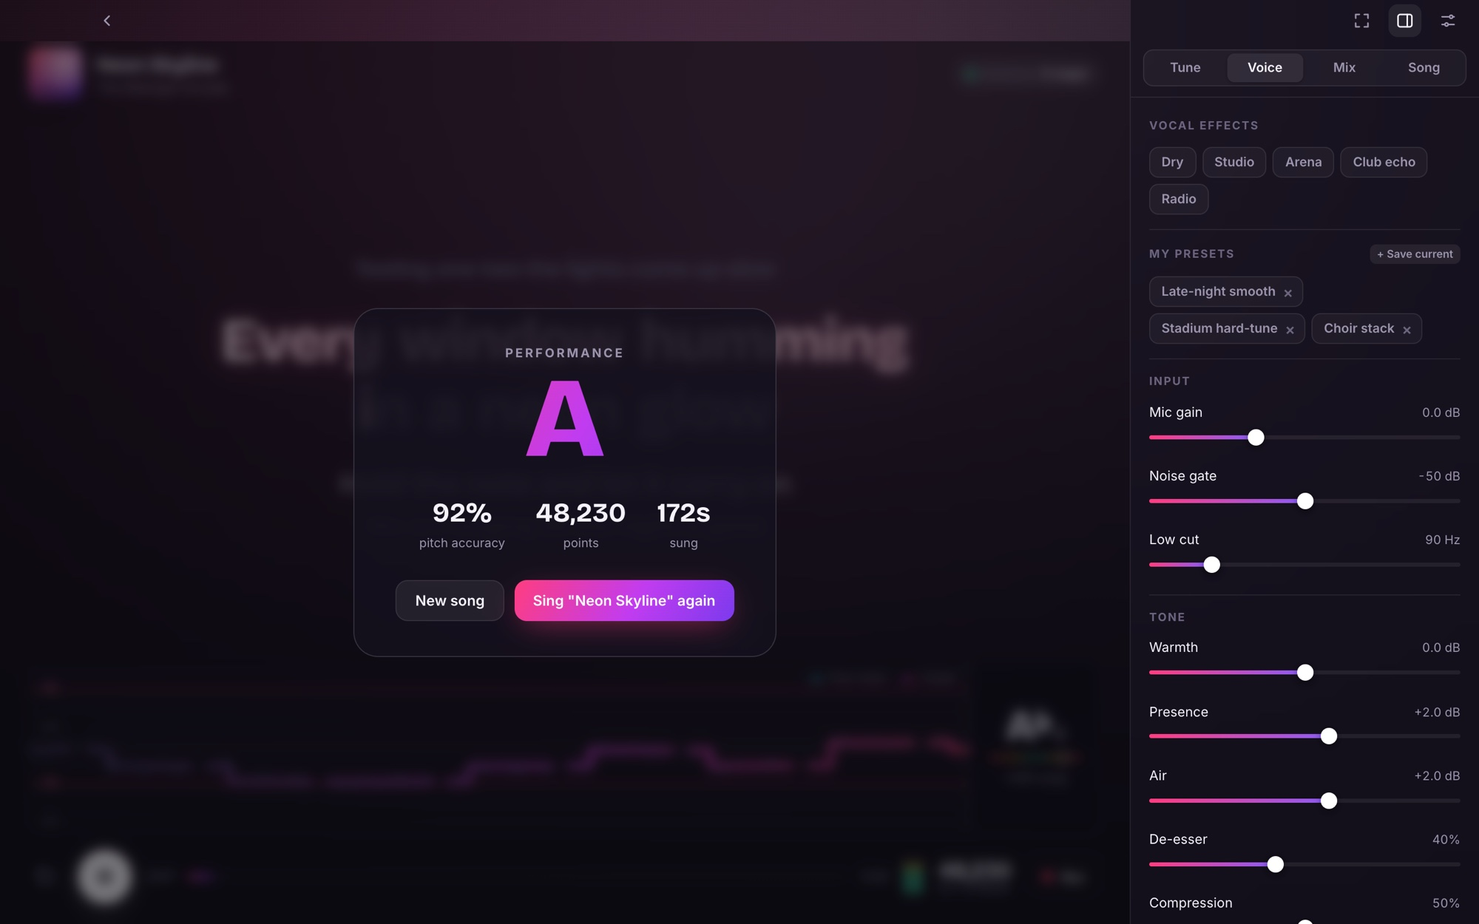
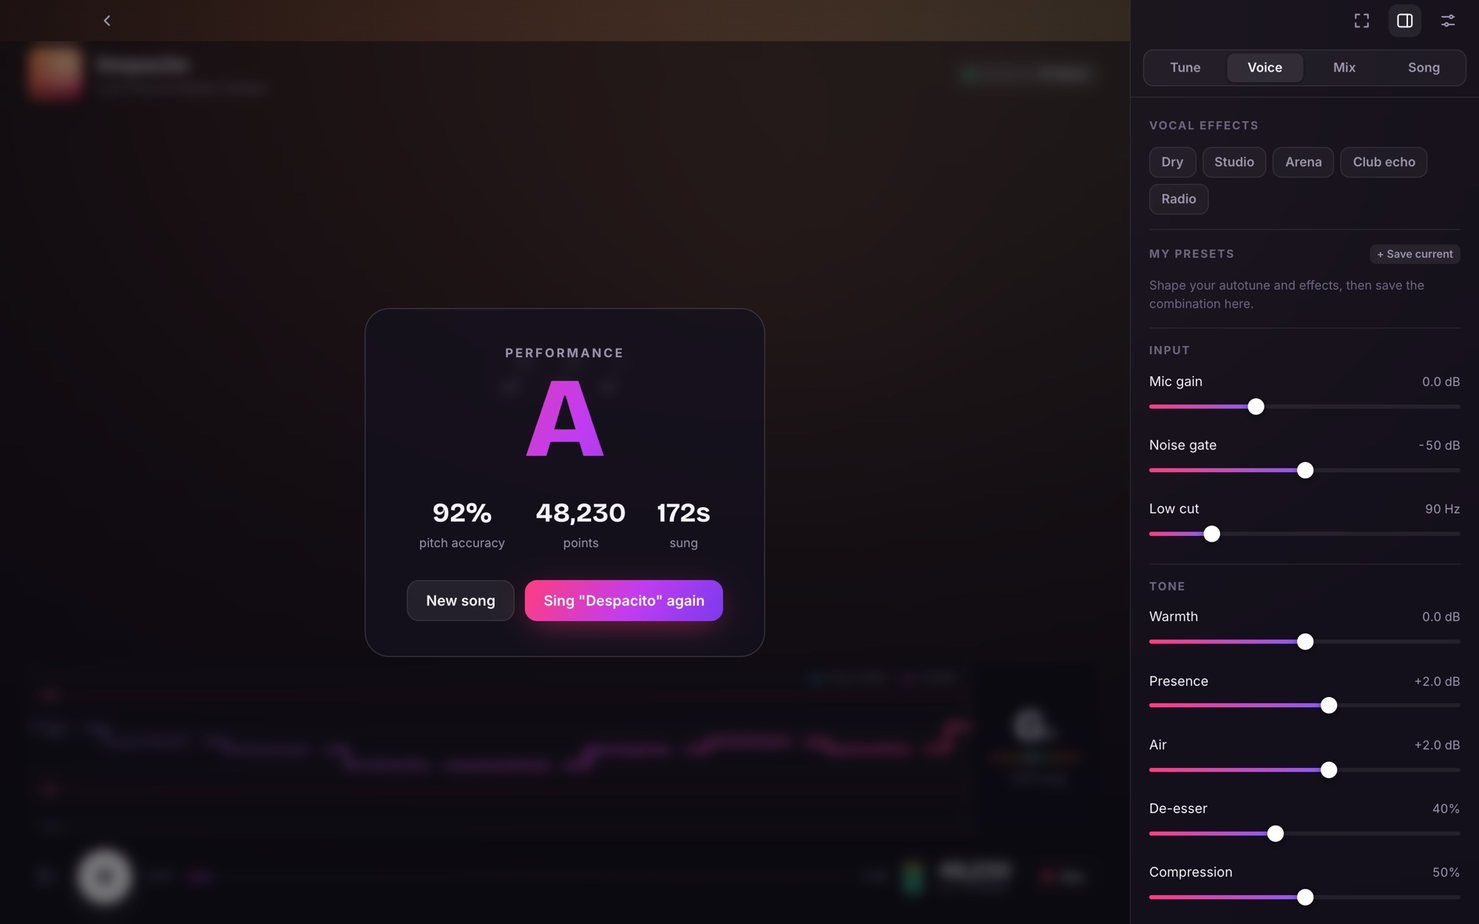
Rename to Open Karaoke; refresh screenshots
- App, installers, bundle id, storage keys, recordings folder and docs
  now use the Open Karaoke name (repo: osmanahmadxai/open-karaoke)
- Installer assets are published as OpenKaraoke-<platform>.<ext>
- Screenshots feature Despacito with placeholder artwork and no lyrics

diff --git a/docs/index.html b/docs/index.html
@@ -3,12 +3,12 @@
   <head>
     <meta charset="UTF-8" />
     <meta name="viewport" content="width=device-width, initial-scale=1.0" />
-    <title>Croonly — open-source karaoke with real-time autotune</title>
+    <title>Open Karaoke — open-source karaoke with real-time autotune</title>
     <meta name="description" content="Free, open-source karaoke for macOS, Windows and Linux. Search any song, sing over the instrumental with synced lyrics and a real-time autotune." />
     <link rel="icon" href="icon.png" />
-    <meta property="og:title" content="Croonly: open-source karaoke with real-time autotune" />
+    <meta property="og:title" content="Open Karaoke: open-source karaoke with real-time autotune" />
     <meta property="og:description" content="Search any song, sing over the instrumental with synced lyrics and a live autotune. Free for macOS, Windows and Linux." />
-    <meta property="og:image" content="https://osmanahmadxai.github.io/croonly/screenshots/banner.jpg" />
+    <meta property="og:image" content="https://osmanahmadxai.github.io/open-karaoke/screenshots/banner.jpg" />
     <meta name="twitter:card" content="summary_large_image" />
     <link rel="preconnect" href="https://fonts.googleapis.com" />
     <link rel="preconnect" href="https://fonts.gstatic.com" crossorigin />
@@ -102,8 +102,8 @@
   <body>
     <div class="wrap">
       <header>
-        <a class="brand" href="./"><img src="icon.png" alt="" />Croonly</a>
-        <a class="gh" id="repo-link" href="https://github.com/osmanahmadxai/croonly">GitHub ↗</a>
+        <a class="brand" href="./"><img src="icon.png" alt="" />Open Karaoke</a>
+        <a class="gh" id="repo-link" href="https://github.com/osmanahmadxai/open-karaoke">GitHub ↗</a>
       </header>
 
       <section class="hero">
@@ -114,39 +114,39 @@
         </p>
         <a class="dl" id="main-dl" href="#downloads">
           <svg viewBox="0 0 24 24" fill="none" stroke="currentColor" stroke-width="2.2" stroke-linecap="round" stroke-linejoin="round"><path d="M12 4v11m0 0-4.5-4.5M12 15l4.5-4.5M5 19h14" /></svg>
-          <span id="main-label">Download Croonly</span>
+          <span id="main-label">Download Open Karaoke</span>
         </a>
         <div class="meta" id="meta">Free · Open source (MIT) · macOS, Windows &amp; Linux</div>
         <div class="others" id="others"></div>
-        <div class="shot"><img src="screenshots/stage.jpg" alt="Croonly singing screen with lyrics, pitch graph and autotune controls" /></div>
+        <div class="shot"><img src="screenshots/stage.jpg" alt="Open Karaoke singing screen with lyrics, pitch graph and autotune controls" /></div>
       </section>
 
       <section class="platforms" id="downloads">
         <div class="plat" data-os="mac">
           <h3>macOS</h3>
           <div class="req">macOS 11 or later · Apple Silicon &amp; Intel</div>
-          <a class="file" data-asset="Croonly-macOS.dmg" href="#">Croonly-macOS.dmg <span>Disk image</span></a>
-          <div class="note">First launch: right-click Croonly in Applications and choose <b>Open</b>. If macOS still refuses, run <code>xattr -cr /Applications/Croonly.app</code> in Terminal.</div>
+          <a class="file" data-asset="OpenKaraoke-macOS.dmg" href="#">OpenKaraoke-macOS.dmg <span>Disk image</span></a>
+          <div class="note">First launch: right-click Open Karaoke in Applications and choose <b>Open</b>. If macOS still refuses, run <code>xattr -cr "/Applications/Open Karaoke.app"</code> in Terminal.</div>
         </div>
         <div class="plat" data-os="windows">
           <h3>Windows</h3>
           <div class="req">Windows 10 or 11 · 64-bit</div>
-          <a class="file" data-asset="Croonly-Windows-Setup.exe" href="#">Croonly-Windows-Setup.exe <span>Installer</span></a>
-          <a class="file" data-asset="Croonly-Windows.msi" href="#">Croonly-Windows.msi <span>MSI package</span></a>
+          <a class="file" data-asset="OpenKaraoke-Windows-Setup.exe" href="#">OpenKaraoke-Windows-Setup.exe <span>Installer</span></a>
+          <a class="file" data-asset="OpenKaraoke-Windows.msi" href="#">OpenKaraoke-Windows.msi <span>MSI package</span></a>
           <div class="note">If SmartScreen appears, click <b>More info → Run anyway</b>. No admin rights needed.</div>
         </div>
         <div class="plat" data-os="linux">
           <h3>Linux</h3>
           <div class="req">x86-64 · any modern distro</div>
-          <a class="file" data-asset="Croonly-Linux.AppImage" href="#">Croonly-Linux.AppImage <span>Any distro</span></a>
-          <a class="file" data-asset="Croonly-Linux.deb" href="#">Croonly-Linux.deb <span>Ubuntu / Debian</span></a>
-          <a class="file" data-asset="Croonly-Linux.rpm" href="#">Croonly-Linux.rpm <span>Fedora / openSUSE</span></a>
-          <div class="note">AppImage: <code>chmod +x Croonly-Linux.AppImage</code> then run it.</div>
+          <a class="file" data-asset="OpenKaraoke-Linux.AppImage" href="#">OpenKaraoke-Linux.AppImage <span>Any distro</span></a>
+          <a class="file" data-asset="OpenKaraoke-Linux.deb" href="#">OpenKaraoke-Linux.deb <span>Ubuntu / Debian</span></a>
+          <a class="file" data-asset="OpenKaraoke-Linux.rpm" href="#">OpenKaraoke-Linux.rpm <span>Fedora / openSUSE</span></a>
+          <div class="note">AppImage: <code>chmod +x OpenKaraoke-Linux.AppImage</code> then run it.</div>
         </div>
       </section>
 
       <section class="features">
-        <div class="feat"><i>🔎</i><b>Any song, one click</b><p>Croonly finds the best instrumental automatically, or strips the vocals itself when there isn't one.</p></div>
+        <div class="feat"><i>🔎</i><b>Any song, one click</b><p>Open Karaoke finds the best instrumental automatically, or strips the vocals itself when there isn't one.</p></div>
         <div class="feat"><i>🎤</i><b>Real-time autotune</b><p>Low-latency pitch correction with retune speed, humanize, flex-tune, vibrato, formant control and harmonies.</p></div>
         <div class="feat"><i>📜</i><b>Lyrics that keep up</b><p>Synced, word-by-word lyrics, automatically aligned to the instrumental you're singing over.</p></div>
         <div class="feat"><i>🧪</i><b>Voice Lab</b><p>Record a take, loop it and dial in your sound before you sing, then save it as your own preset.</p></div>
@@ -155,18 +155,18 @@
       </section>
 
       <footer>
-        <span>Croonly is free software under the MIT license. It streams content at your request and hosts nothing itself.</span>
-        <span><a href="https://github.com/osmanahmadxai/croonly">Source code</a> · <a href="https://github.com/osmanahmadxai/croonly/releases">All releases</a></span>
+        <span>Open Karaoke is free software under the MIT license. It streams content at your request and hosts nothing itself.</span>
+        <span><a href="https://github.com/osmanahmadxai/open-karaoke">Source code</a> · <a href="https://github.com/osmanahmadxai/open-karaoke/releases">All releases</a></span>
       </footer>
     </div>
 
     <script>
-      const REPO = "osmanahmadxai/croonly";
+      const REPO = "osmanahmadxai/open-karaoke";
       const latest = (asset) => `https://github.com/${REPO}/releases/latest/download/${asset}`;
       const PRIMARY = {
-        mac: { asset: "Croonly-macOS.dmg", label: "Download for macOS" },
-        windows: { asset: "Croonly-Windows-Setup.exe", label: "Download for Windows" },
-        linux: { asset: "Croonly-Linux.AppImage", label: "Download for Linux" },
+        mac: { asset: "OpenKaraoke-macOS.dmg", label: "Download for macOS" },
+        windows: { asset: "OpenKaraoke-Windows-Setup.exe", label: "Download for Windows" },
+        linux: { asset: "OpenKaraoke-Linux.AppImage", label: "Download for Linux" },
       };
       const NAMES = { mac: "macOS", windows: "Windows", linux: "Linux" };
 
@@ -196,7 +196,7 @@
             .join("");
       } else {
         document.getElementById("main-label").textContent = "Choose your platform";
-        document.getElementById("others").textContent = "Croonly is a desktop app for macOS, Windows and Linux.";
+        document.getElementById("others").textContent = "Open Karaoke is a desktop app for macOS, Windows and Linux.";
       }
 
       // Show the current version, or a notice while the first build runs.

diff --git a/src/lib/store.ts b/src/lib/store.ts
@@ -48,12 +48,12 @@ export interface AudioPrefs {
   buffer: number | null;
 }
 
-const PERSIST_KEY = "croonly.params.v1";
-const PREFS_KEY = "croonly.audio.v1";
-const HISTORY_KEY = "croonly.history.v1";
+const PERSIST_KEY = "openkaraoke.params.v1";
+const PREFS_KEY = "openkaraoke.audio.v1";
+const HISTORY_KEY = "openkaraoke.history.v1";
 // Per-song values that should not survive a restart.
 const TRANSIENT = new Set(["tune_key", "tune_scale", "drone"]);
-const MY_PRESETS_KEY = "croonly.mypresets.v1";
+const MY_PRESETS_KEY = "openkaraoke.mypresets.v1";
 
 export interface MyPreset {
   name: string;

diff --git a/src/components/Setup.tsx b/src/components/Setup.tsx
@@ -44,7 +44,7 @@ export function Setup() {
           <Mic />
         </div>
         <h1>Setting up your stage</h1>
-        <p>Croonly is downloading two free open-source helpers it uses to fetch music. This happens once and takes about a minute.</p>
+        <p>Open Karaoke is downloading two free open-source helpers it uses to fetch music. This happens once and takes about a minute.</p>
         <div className="progress">
           <div style={{ width: `${overall * 100}%` }} />
         </div>

diff --git a/src/App.tsx b/src/App.tsx
@@ -55,7 +55,7 @@ function TitleBar() {
       ) : (
         <div className="brand" data-tauri-drag-region>
           <div className="brand-dot" />
-          Croonly
+          Open Karaoke
         </div>
       )}
       <div className="spacer" data-tauri-drag-region />

diff --git a/index.html b/index.html
@@ -3,7 +3,7 @@
   <head>
     <meta charset="UTF-8" />
     <meta name="viewport" content="width=device-width, initial-scale=1.0" />
-    <title>Croonly</title>
+    <title>Open Karaoke</title>
   </head>
   <body>
     <div id="root"></div>

diff --git a/src-tauri/src/tools.rs b/src-tauri/src/tools.rs
@@ -1,4 +1,4 @@
-//! First-run installation of the external helpers Croonly drives:
+//! First-run installation of the external helpers Open Karaoke drives:
 //! yt-dlp (fetches audio) and Deno (the JavaScript runtime yt-dlp needs to
 //! read YouTube). Both are downloaded from their official GitHub releases
 //! into the app data folder, so users need nothing but an internet
@@ -71,7 +71,7 @@ struct SetupProgress<'a> {
 
 pub fn http() -> reqwest::Client {
     reqwest::Client::builder()
-        .user_agent(concat!("Croonly/", env!("CARGO_PKG_VERSION"), " (open-source karaoke)"))
+        .user_agent(concat!("Open Karaoke/", env!("CARGO_PKG_VERSION"), " (open-source karaoke)"))
         .connect_timeout(std::time::Duration::from_secs(15))
         .build()
         .expect("http client")

diff --git a/src-tauri/src/lib.rs b/src-tauri/src/lib.rs
@@ -562,7 +562,7 @@ pub fn run() {
             let cache = paths.app_cache_dir()?.join("audio");
             let recordings = paths
                 .audio_dir()
-                .map(|d| d.join("Croonly"))
+                .map(|d| d.join("Open Karaoke"))
                 .unwrap_or_else(|_| data.join("recordings"));
             let dirs = Dirs { tools: data.join("bin"), cache: cache.clone(), recordings };
             std::fs::create_dir_all(&dirs.tools)?;
@@ -612,5 +612,5 @@ pub fn run() {
             recordings_dir,
         ])
         .run(tauri::generate_context!())
-        .expect("error while running Croonly");
+        .expect("error while running Open Karaoke");
 }

diff --git a/src-tauri/examples/pipeline.rs b/src-tauri/examples/pipeline.rs
@@ -1,6 +1,6 @@
 //! Offline check of the song pipeline on real files:
 //! `cargo run --release --example pipeline -- instrumental.m4a original.m4a`
-use croonly_lib::audio::{analysis, decode, stretch};
+use open_karaoke_lib::audio::{analysis, decode, stretch};
 use std::time::Instant;
 
 fn main() {

diff --git a/src-tauri/src/main.rs b/src-tauri/src/main.rs
@@ -2,5 +2,5 @@
 #![cfg_attr(not(debug_assertions), windows_subsystem = "windows")]
 
 fn main() {
-    croonly_lib::run()
+    open_karaoke_lib::run()
 }

diff --git a/README.md b/README.md
@@ -1,17 +1,17 @@
 <div align="center">
 
-<img src="docs/screenshots/banner.jpg" alt="Croonly: open-source karaoke with real-time autotune" width="100%" />
+<img src="docs/screenshots/banner.jpg" alt="Open Karaoke: open-source karaoke with real-time autotune" width="100%" />
 
-# Croonly
+# Open Karaoke
 
 **Sing anything. Sound incredible.**
 
 Free, open-source karaoke for your computer. Search any song, press start, and sing over the instrumental with synced lyrics and a real-time autotune.
 
-[![Download](https://img.shields.io/badge/⬇_Download-Croonly-ff3d7f?style=for-the-badge)](https://osmanahmadxai.github.io/croonly/)
+[![Download](https://img.shields.io/badge/⬇_Download-OpenKaraoke-ff3d7f?style=for-the-badge)](https://osmanahmadxai.github.io/open-karaoke/)
 
-[![Latest release](https://img.shields.io/github/v/release/osmanahmadxai/croonly?color=c13cf0&label=release)](https://github.com/osmanahmadxai/croonly/releases/latest)
-[![Build](https://img.shields.io/github/actions/workflow/status/osmanahmadxai/croonly/release.yml?label=build)](https://github.com/osmanahmadxai/croonly/actions)
+[![Latest release](https://img.shields.io/github/v/release/osmanahmadxai/open-karaoke?color=c13cf0&label=release)](https://github.com/osmanahmadxai/open-karaoke/releases/latest)
+[![Build](https://img.shields.io/github/actions/workflow/status/osmanahmadxai/open-karaoke/release.yml?label=build)](https://github.com/osmanahmadxai/open-karaoke/actions)
 [![License: MIT](https://img.shields.io/badge/license-MIT-7c3aed)](LICENSE)
 ![Platforms](https://img.shields.io/badge/platforms-macOS%20%7C%20Windows%20%7C%20Linux-555)
 ![Built with](https://img.shields.io/badge/built%20with-Rust%20%2B%20Tauri%20%2B%20React-orange)
@@ -22,9 +22,9 @@ Free, open-source karaoke for your computer. Search any song, press start, and s
 
 ---
 
-## ✨ Why Croonly?
+## ✨ Why Open Karaoke?
 
-Most karaoke apps are subscription services with a limited catalogue, and the free ones mostly play a lyric video. Croonly takes a different approach:
+Most karaoke apps are subscription services with a limited catalogue, and the free ones mostly play a lyric video. Open Karaoke takes a different approach:
 
 - 🔎 **Any song, one click.** It finds the instrumental and the synced lyrics for you.
 - 🎤 **Real autotune, live.** Written from scratch in Rust, it corrects your pitch with a round-trip delay of about 10 ms plus your audio buffer.
@@ -34,18 +34,18 @@ Most karaoke apps are subscription services with a limited catalogue, and the fr
 
 ## ⬇ Download
 
-> ### **[osmanahmadxai.github.io/croonly](https://osmanahmadxai.github.io/croonly/)**
+> ### **[osmanahmadxai.github.io/open-karaoke](https://osmanahmadxai.github.io/open-karaoke/)**
 > One link for every platform. It detects your computer and gives you the right installer.
 
 Or pick a file directly. These links always point to the newest version.
 
 | | Installer | Notes |
 |---|---|---|
-| 🍎 **macOS 11+**<br><sub>Apple Silicon & Intel</sub> | [**Croonly-macOS.dmg**](https://github.com/osmanahmadxai/croonly/releases/latest/download/Croonly-macOS.dmg) | Open the DMG and drag Croonly to Applications. The first time, **right-click → Open**. |
-| 🪟 **Windows 10/11** | [**Croonly-Windows-Setup.exe**](https://github.com/osmanahmadxai/croonly/releases/latest/download/Croonly-Windows-Setup.exe) · [.msi](https://github.com/osmanahmadxai/croonly/releases/latest/download/Croonly-Windows.msi) | No admin rights needed. If SmartScreen appears, choose **More info → Run anyway**. |
-| 🐧 **Linux** | [**AppImage**](https://github.com/osmanahmadxai/croonly/releases/latest/download/Croonly-Linux.AppImage) · [.deb](https://github.com/osmanahmadxai/croonly/releases/latest/download/Croonly-Linux.deb) · [.rpm](https://github.com/osmanahmadxai/croonly/releases/latest/download/Croonly-Linux.rpm) | AppImage: `chmod +x Croonly-Linux.AppImage && ./Croonly-Linux.AppImage` |
+| 🍎 **macOS 11+**<br><sub>Apple Silicon & Intel</sub> | [**OpenKaraoke-macOS.dmg**](https://github.com/osmanahmadxai/open-karaoke/releases/latest/download/OpenKaraoke-macOS.dmg) | Open the DMG and drag Open Karaoke to Applications. The first time, **right-click → Open**. |
+| 🪟 **Windows 10/11** | [**OpenKaraoke-Windows-Setup.exe**](https://github.com/osmanahmadxai/open-karaoke/releases/latest/download/OpenKaraoke-Windows-Setup.exe) · [.msi](https://github.com/osmanahmadxai/open-karaoke/releases/latest/download/OpenKaraoke-Windows.msi) | No admin rights needed. If SmartScreen appears, choose **More info → Run anyway**. |
+| 🐧 **Linux** | [**AppImage**](https://github.com/osmanahmadxai/open-karaoke/releases/latest/download/OpenKaraoke-Linux.AppImage) · [.deb](https://github.com/osmanahmadxai/open-karaoke/releases/latest/download/OpenKaraoke-Linux.deb) · [.rpm](https://github.com/osmanahmadxai/open-karaoke/releases/latest/download/OpenKaraoke-Linux.rpm) | AppImage: `chmod +x OpenKaraoke-Linux.AppImage && ./OpenKaraoke-Linux.AppImage` |
 
-<sub>The builds are not code-signed yet, which is why macOS and Windows show a warning the first time. On first launch Croonly downloads two free helpers, <a href="https://github.com/yt-dlp/yt-dlp">yt-dlp</a> and <a href="https://deno.com">Deno</a> (about 120 MB, one time).</sub>
+<sub>The builds are not code-signed yet, which is why macOS and Windows show a warning the first time. On first launch Open Karaoke downloads two free helpers, <a href="https://github.com/yt-dlp/yt-dlp">yt-dlp</a> and <a href="https://deno.com">Deno</a> (about 120 MB, one time).</sub>
 
 ## 🖼 Screenshots
 
@@ -70,16 +70,16 @@ Or pick a file directly. These links always point to the newest version.
   </tr>
 </table>
 
-<sub>Screenshots use made-up demo songs and placeholder lyrics.</sub>
+<sub>Screenshots use demo data with placeholder artwork. Lyrics are fetched live inside the app, so none appear here.</sub>
 
 ## 🎛 Features
 
 ### 🎵 Songs & lyrics
 - **Search anything.** The catalogue comes from the iTunes Search API, with Deezer as a fallback.
-- **Automatic instrumental finder.** Croonly searches YouTube for instrumental, karaoke and backing-track versions and ranks them. It penalises covers, remixes, "slowed + reverb" edits and versions with the wrong length. You can switch to any other candidate from the **Song** tab.
-- **Vocal-remover fallback.** If no clean instrumental exists, Croonly strips the centre-panned lead vocal from the original recording and keeps the bass and kick.
+- **Automatic instrumental finder.** Open Karaoke searches YouTube for instrumental, karaoke and backing-track versions and ranks them. It penalises covers, remixes, "slowed + reverb" edits and versions with the wrong length. You can switch to any other candidate from the **Song** tab.
+- **Vocal-remover fallback.** If no clean instrumental exists, Open Karaoke strips the centre-panned lead vocal from the original recording and keeps the bass and kick.
 - **Time-synced lyrics** from [LRCLIB](https://lrclib.net), with a smooth word-by-word wipe, countdown dots before each verse, and support for word-timed ("enhanced") LRC.
-- **Lyric auto-sync.** Instrumentals often start a few seconds before or after the original, so lyrics would drift. Croonly cross-correlates the rhythm of the two recordings to find the exact offset (accurate to a few milliseconds in tests). You can nudge the timing live with `[` / `]`.
+- **Lyric auto-sync.** Instrumentals often start a few seconds before or after the original, so lyrics would drift. Open Karaoke cross-correlates the rhythm of the two recordings to find the exact offset (accurate to a few milliseconds in tests). You can nudge the timing live with `[` / `]`.
 - **Guide vocal.** Mix in the original singer quietly while you learn a song.
 - **Key & tempo change.** Shift the music ±6 semitones or play it at 70–130 % speed using [Signalsmith Stretch](https://signalsmith-audio.co.uk/code/stretch/). The autotune key follows automatically.
 
@@ -110,7 +110,7 @@ Noise gate (with hold) · low-cut · three-band EQ (warmth, presence, air) · sp
 ### 🏆 Performance
 - **Live pitch graph** with scale-note lanes and a tuner readout.
 - **Scoring:** pitch accuracy, points, streaks and a grade at the end of the song.
-- **Recording** of the full mix to 24-bit WAV in `Music/Croonly`, with automatic latency compensation so your voice lines up with the music.
+- **Recording** of the full mix to 24-bit WAV in `Music/Open Karaoke`, with automatic latency compensation so your voice lines up with the music.
 - **Fullscreen stage mode** for parties.
 
 ### ⌨ Keyboard shortcuts
@@ -164,8 +164,8 @@ mic → low-cut → gate → McLeod pitch detector (every 4 ms)
 **Requirements:** [Rust](https://rustup.rs) (stable), Node.js 20+, and the [Tauri prerequisites](https://v2.tauri.app/start/prerequisites/) for your OS. On Linux you also need `libasound2-dev` and `libclang-dev`.
 
 ```bash
-git clone https://github.com/osmanahmadxai/croonly.git
-cd croonly
+git clone https://github.com/osmanahmadxai/open-karaoke.git
+cd open-karaoke
 npm install
 npm run app        # run in development mode with hot reload
 npm run dist       # build installers for your OS → src-tauri/target/release/bundle/
@@ -207,7 +207,7 @@ docs/                   download page (GitHub Pages) and screenshots
    ```bash
    git tag v0.2.0 && git push origin v0.2.0
    ```
-3. GitHub Actions builds macOS (universal), Windows and Linux installers, publishes the release, and attaches files with fixed names so that the [download page](https://osmanahmadxai.github.io/croonly/) always serves the newest version.
+3. GitHub Actions builds macOS (universal), Windows and Linux installers, publishes the release, and attaches files with fixed names so that the [download page](https://osmanahmadxai.github.io/open-karaoke/) always serves the newest version.
 </details>
 
 ## ❓ FAQ
@@ -227,7 +227,7 @@ Open **Audio setup** (the sliders icon) and lower the buffer size to 128 or 64. 
 <details>
 <summary><b>The lyrics are a little early or late.</b></summary>
 
-Croonly aligns them automatically when it can. Otherwise press `[` or `]` while singing to nudge them in 0.1 s steps.
+Open Karaoke aligns them automatically when it can. Otherwise press `[` or `]` while singing to nudge them in 0.1 s steps.
 </details>
 
 <details>
@@ -239,13 +239,13 @@ Open the **Song** tab and choose another source. Every candidate is listed, alon
 <details>
 <summary><b>macOS says the app "can't be opened" or "is damaged".</b></summary>
 
-The builds aren't notarized by Apple yet. Right-click Croonly in Applications and choose **Open**. If that doesn't work, run `xattr -cr /Applications/Croonly.app` in Terminal.
+The builds aren't notarized by Apple yet. Right-click Open Karaoke in Applications and choose **Open**. If that doesn't work, run `xattr -cr "/Applications/Open Karaoke.app"` in Terminal.
 </details>
 
 <details>
 <summary><b>Where are my recordings?</b></summary>
 
-In `Music/Croonly` inside your home folder. The folder button in the Voice Lab opens it.
+In `Music/Open Karaoke` inside your home folder. The folder button in the Voice Lab opens it.
 </details>
 
 ## 🗺 Roadmap
@@ -257,7 +257,7 @@ In `Music/Croonly` inside your home folder. The folder button in the Voice Lab o
 - [ ] Interface translations
 - [ ] Signed and notarized builds
 
-Ideas and pull requests are welcome. Open an [issue](https://github.com/osmanahmadxai/croonly/issues) to discuss bigger changes.
+Ideas and pull requests are welcome. Open an [issue](https://github.com/osmanahmadxai/open-karaoke/issues) to discuss bigger changes.
 
 ## 🤝 Contributing
 
@@ -268,13 +268,13 @@ Ideas and pull requests are welcome. Open an [issue](https://github.com/osmanahm
 
 ## 🙏 Acknowledgements
 
-Croonly stands on the shoulders of great open-source projects and free services:
+Open Karaoke stands on the shoulders of great open-source projects and free services:
 [Tauri](https://tauri.app) · [cpal](https://github.com/RustAudio/cpal) · [Symphonia](https://github.com/pdeljanov/Symphonia) · [rubato](https://github.com/HEnquist/rubato) · [RustFFT](https://github.com/ejmahler/RustFFT) · [Signalsmith Stretch](https://github.com/Signalsmith-Audio/signalsmith-stretch) · [yt-dlp](https://github.com/yt-dlp/yt-dlp) · [Deno](https://deno.com) · [LRCLIB](https://lrclib.net) · [iTunes Search API](https://performance-partners.apple.com/search-api) · [Deezer API](https://developers.deezer.com) · [React](https://react.dev) · [Zustand](https://github.com/pmndrs/zustand)
 
 ## ⚖ Legal
 
-Croonly is a player. It fetches audio and lyrics on the user's request from third-party services and does not host or redistribute any content. You are responsible for following the terms of service of those platforms and the copyright laws in your country. Recordings you make are for personal use.
+Open Karaoke is a player. It fetches audio and lyrics on the user's request from third-party services and does not host or redistribute any content. You are responsible for following the terms of service of those platforms and the copyright laws in your country. Recordings you make are for personal use.
 
 ## 📄 License
 
-[MIT](LICENSE) © 2026 Croonly contributors
+[MIT](LICENSE) © 2026 Open Karaoke contributors
